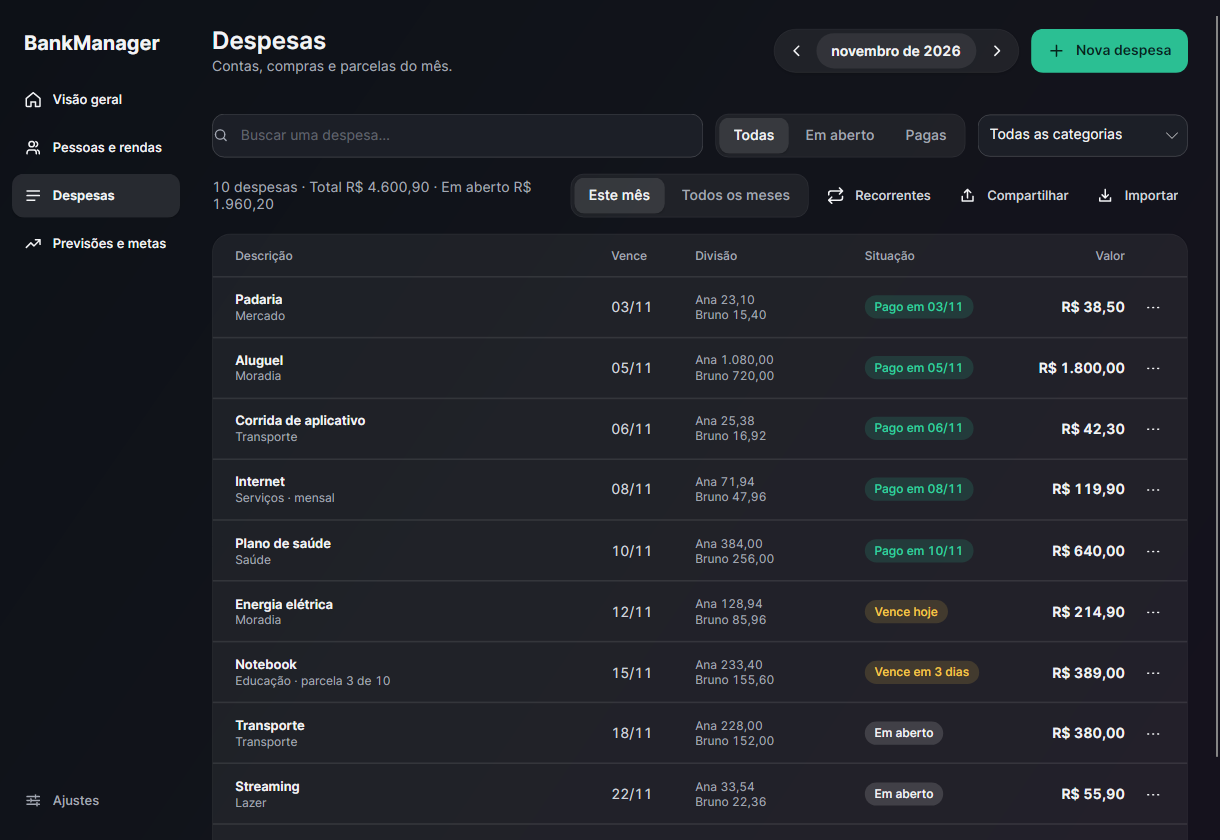
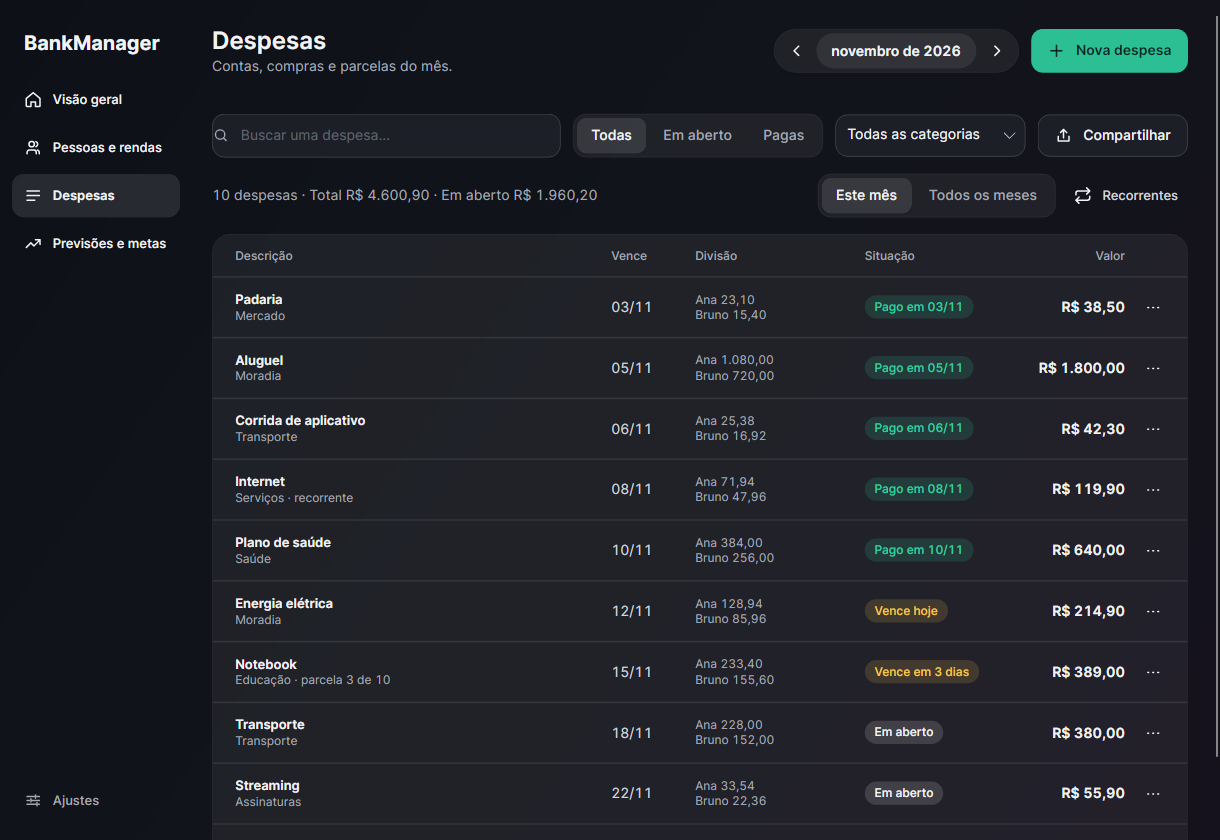
docs: fluxo novo de compartilhar despesas e capturas regeneradas
README, LEIA-ME, guia do código, notas de versão e resumo da evolução descrevem o
modo de seleção, o diálogo de exportar e o assistente de importação em três passos.
Capturas refeitas com dados fictícios, incluindo as quatro telas do fluxo.

diff --git a/README.md b/README.md
@@ -8,8 +8,10 @@ Aplicativo desktop de gestão financeira individual e familiar em **C# / .NET 10
 ![Fim da visão geral: próximos pagamentos, acerto de contas e últimas movimentações (dados de demonstração)](docs/visao-geral-2.png)
 ![Metas por categoria em Previsões e metas (dados de demonstração)](docs/metas.png)
 ![Lista de despesas no tema escuro (dados de demonstração)](docs/despesas-escuro.png)
-![Assistente Compartilhar despesas (dados de demonstração)](docs/compartilhar.png)
-![Assistente Importar despesas compartilhadas (dados de demonstração)](docs/importar-compartilhadas.png)
+![Modo de seleção na página Despesas (dados de demonstração)](docs/compartilhar-selecionar.png)
+![Diálogo Compartilhar despesas (dados de demonstração)](docs/compartilhar-exportar.png)
+![Importar despesas compartilhadas: quem é quem (dados de demonstração)](docs/importar-pessoas.png)
+![Importar despesas compartilhadas: prévia (dados de demonstração)](docs/importar-previa.png)
 
 ## Baixar pronto e compartilhar
 
@@ -55,7 +57,7 @@ A restauração inicial requer NuGet ou pacotes já presentes no cache. O uso do
 5. Para contas fixas (aluguel, internet, assinaturas), marque **Repetir todo mês** ao criar a despesa. Em **Despesas → Recorrentes** (ou em **Previsões e metas → Despesas recorrentes**) você encerra ou remove cada uma. Na lista de despesas, use o menu **⋯** de cada linha para marcar como paga, editar ou excluir; filtre por busca, situação e categoria e navegue entre meses. **Ctrl+N** abre uma nova despesa em qualquer tela.
 6. Em **Previsões e metas**, um submenu reúne as metas por categoria, a previsão do mês seguinte ao selecionado, as despesas recorrentes e o acerto de contas.
 7. Ao marcar uma despesa como paga, o aplicativo guarda **quem pagou** e a **data do pagamento** (hoje, ou a que você informar). A lista mostra "Pago em dd/MM".
-8. Para mandar algumas despesas a outra pessoa, use **Despesas → Compartilhar**; quem recebe usa **Importar** e as despesas são adicionadas às dela, sem substituir nada (veja [Compartilhar despesas](#compartilhar-despesas)).
+8. Para mandar algumas despesas a outra pessoa, use **Despesas → Compartilhar** e marque as despesas na lista; quem recebe usa **Ajustes → Importar despesas compartilhadas** e as despesas são adicionadas às dela, sem substituir nada (veja [Compartilhar despesas](#compartilhar-despesas)).
 9. Em **Ajustes**, escolha o tema (claro, escuro ou automático) e exporte backups para outro local. Importações são validadas e pedem confirmação antes de substituir o histórico.
 
 ## Regras financeiras
@@ -80,21 +82,23 @@ Em **Ajustes → Seus dados → Planilhas**:
 
 Serve para passar **algumas** despesas a outra pessoa que usa o BankManager (por exemplo, as contas da casa para quem divide com você). É diferente do backup: o backup leva tudo e, ao ser importado, **substitui** a base; o compartilhamento leva só o que você marcar e, ao ser importado, **adiciona**.
 
-**Enviar (Despesas → Compartilhar, ou Ajustes → Compartilhar despesas):**
+**Enviar (Despesas → Compartilhar):**
 
-- Marque as despesas nas caixas de seleção ou use os atalhos: **Todas deste mês**, **Marcar uma categoria** e **Completar parcelas** (marca as outras parcelas das compras parceladas já marcadas).
-- A prévia mostra quantas despesas vão, o total e as pessoas citadas. O arquivo tem extensão própria, `.bmshare.json`.
+- O botão **Compartilhar**, ao lado dos filtros, liga o **modo de seleção**: a lista ganha caixas de marcação e uma faixa com os atalhos **Todas deste mês**, **Uma categoria…** e **Limpar seleção**. Clicar em qualquer ponto da linha marca ou desmarca. A busca e os filtros continuam valendo, e os atalhos marcam só o que está visível. **Esc** (ou **Cancelar**) sai do modo.
+- Uma barra flutuante mostra quantas despesas estão marcadas e o total. **Compartilhar…** abre o diálogo com os indicadores (despesas, total, pessoas citadas) e a lista do que vai no arquivo.
+- Duas opções, desligadas por padrão: **Incluir as outras parcelas** de uma compra parcelada marcada e **Incluir situação de pagamento e quem pagou** (desligada, a outra pessoa recebe tudo "em aberto").
+- **Salvar arquivo** abre o seletor do sistema com o nome sugerido `despesas-<mês>-<ano>.bmshare.json`. Depois de salvar, o aplicativo mostra onde o arquivo ficou.
 - Vão no arquivo: descrição, categoria, vencimento, valor, itens da lista de compra, dados de parcela, modo de divisão, os responsáveis **pelo nome** e as categorias próprias usadas. **Nunca vão:** rendas, metas, acertos de contas e despesas não marcadas.
-- Por padrão, todas vão "em aberto". Marque **Incluir a situação de pagamento** para levar também pago/em aberto, a data do pagamento e quem pagou.
 - O arquivo é um texto legível, sem senha, com informações financeiras: envie só para quem deve recebê-lo.
 
-**Receber (Despesas → Importar, ou Ajustes → Importar despesas compartilhadas):**
+**Receber (Ajustes → Seus dados → Importar despesas compartilhadas, ou o botão de mesmo nome quando a lista de despesas está vazia):**
 
-1. O arquivo é validado (tamanho de até 5 MB, até 5.000 despesas, campos desconhecidos e versões mais novas recusados) e resumido.
-2. **Pessoas:** para cada nome do arquivo, escolha uma pessoa já cadastrada, criar um cadastro novo ou ignorar. O aplicativo sugere pelo nome (sem diferenciar maiúsculas e acentos), mas a escolha é sua. Se todas as pessoas de uma despesa forem ignoradas, é preciso escolher quem assume.
-3. **Categorias** próprias que não existem na sua base: criar (até o limite de 40) ou usar "Outros".
-4. **Prévia ao vivo:** o que será adicionado, o que já existe e o que tem erro. Cada despesa carrega um identificador de origem; importar o mesmo arquivo duas vezes **não duplica** nada (as repetidas são puladas, a menos que você marque para importar mesmo assim).
-5. Ao confirmar, tudo é gravado de uma vez (ou nada, se algo falhar), e a versão anterior da base vira a cópia automática. No fim aparece "N despesas adicionadas, M puladas".
+1. **Arquivo:** o arquivo é validado (até 5 MB e 5.000 despesas; campos desconhecidos e versões mais novas são recusados). Um arquivo inválido, ou um backup escolhido por engano, aparece em vermelho com o motivo, e nada é alterado.
+2. **Quem é quem?:** para cada nome do arquivo, escolha uma pessoa já cadastrada, criar uma pessoa nova ou ignorar. O aplicativo sugere pelo nome (sem diferenciar maiúsculas e acentos), mas a escolha é sua. Se todas as pessoas de uma despesa forem ignoradas, é preciso escolher quem assume. Duas pessoas do arquivo que dividem uma despesa não podem virar a mesma pessoa. Categorias próprias que faltam: criar (até o limite de 40) ou usar "Outros".
+3. **Prévia:** o que será adicionado e o que já existe. Cada despesa carrega um identificador de origem; importar o mesmo arquivo duas vezes **não duplica** nada (a repetida é pulada, a menos que você marque **Importar mesmo assim** naquela despesa).
+4. Ao confirmar, tudo é gravado de uma vez (ou nada, se algo falhar), e a versão anterior da base vira a cópia automática. A tela final resume o que entrou e oferece **Ver despesas**.
+
+Voltar um passo não perde as escolhas; **Cancelar**, o **X** e **Esc** fecham sem gravar nada (Esc pede confirmação se você já tiver feito escolhas).
 
 Atenção à **divisão proporcional**: ela depende da renda de cada pessoa na base de quem importa, então o rateio é recalculado com as rendas de lá e pode ser diferente do seu. Quem importa pode manter o modo ou trocar por divisão igual. Despesas recorrentes viajam como despesas comuns (o modelo "todo mês" não é enviado). Um backup escolhido no lugar de um compartilhamento (ou o contrário) é recusado com uma mensagem clara, sem alterar nada.
 

diff --git a/docs/RESUMO-DA-EVOLUCAO.md b/docs/RESUMO-DA-EVOLUCAO.md
@@ -73,16 +73,16 @@ O visual inteiro foi trocado pela direção aprovada no protótipo: sai o roxo, 
 | **Data de pagamento** | Marcar como paga guarda o dia (hoje, ou o que você digitar no diálogo "Quem pagou?" ou no formulário). Reabrir apaga. A lista mostra "Pago em dd/MM". |
 | **Últimas movimentações** | Passam a usar a data do pagamento: a despesa aparece no mês em que foi paga. A linha esmaecida foi removida; todas têm opacidade total. |
 | **Esquema versão 3** | Arquivos das versões 1 e 2 abrem e são atualizados em cadeia, sem perda; o arquivo antigo vira a cópia anterior. Despesas já pagas ficam **sem** data de pagamento (o app não inventa uma): vale o vencimento. |
-| **Compartilhar despesas** | Você marca algumas despesas e gera um arquivo `.bmshare.json`. É outro tipo de arquivo, diferente do backup: leva só as despesas marcadas, com as pessoas pelo nome. Nunca leva rendas, metas ou acertos. |
-| **Importar sem substituir** | Quem recebe passa por um assistente: confere o arquivo, diz quem é cada pessoa (existente, nova ou ignorar), decide as categorias que faltam e vê a prévia. As despesas são **adicionadas**; nada é apagado. Importar o mesmo arquivo duas vezes não duplica. Tudo é gravado de uma vez, ou nada. |
+| **Compartilhar despesas** | Na página Despesas, o botão Compartilhar liga um modo de seleção: você marca as despesas na própria lista e gera um arquivo `.bmshare.json`. É outro tipo de arquivo, diferente do backup: leva só as despesas marcadas, com as pessoas pelo nome. Nunca leva rendas, metas ou acertos. |
+| **Importar sem substituir** | Quem recebe passa por um assistente em três passos, desenhado sobre a própria janela: confere o arquivo, diz quem é cada pessoa (existente, nova ou ignorar) e decide as categorias que faltam, e vê a prévia. As despesas são **adicionadas**; nada é apagado. Importar o mesmo arquivo duas vezes não duplica. Tudo é gravado de uma vez, ou nada. |
 
-**Decisões minhas nesta fase:** a seleção para compartilhar fica em uma lista com caixas dentro do assistente (não na lista principal de despesas); o assistente de importação mostra os passos numerados em uma só janela, com a prévia ao vivo; despesas recorrentes viajam como despesas comuns; na divisão proporcional, quem importa escolhe entre manter o modo (recalculado com as rendas de lá) ou dividir igualmente.
+**Decisões minhas nesta fase:** os diálogos de compartilhar e de importar são cartões dentro da janela (não janelas do sistema), para ficarem iguais no Windows e no Linux; os outros diálogos do aplicativo continuam como janelas; o assistente abre o seletor de arquivo antes do passo 1; despesas recorrentes viajam como despesas comuns; na divisão proporcional, quem importa escolhe entre manter o modo (recalculado com as rendas de lá) ou dividir igualmente.
 
 ## Como foi verificado
 
 - Build sem avisos.
-- **95 testes de domínio** (cálculos, validação, recorrências, acerto, CSV, migração com arquivos reais das versões 1 e 2, data de pagamento, compartilhamento: seleção parcial, mapeamentos, duplicatas, parcelas, tipo errado de arquivo, arquivo adulterado e gravação tudo-ou-nada).
-- **54 verificações de interface** com a janela real (cadastro, pagamento com data, acerto, recorrência, categorias, metas, abas, importação de extrato, tema, atalho e o fluxo completo exportar → importar despesas em uma base com dados).
+- **97 testes de domínio** (cálculos, validação, recorrências, acerto, CSV, migração com arquivos reais das versões 1 e 2, data de pagamento, compartilhamento: seleção parcial, mapeamentos, duplicatas, parcelas, tipo errado de arquivo, arquivo adulterado e gravação tudo-ou-nada).
+- **83 verificações de interface** com a janela real (cadastro, pagamento com data, acerto, recorrência, categorias, metas, abas, importação de extrato, tema, atalho e o fluxo completo exportar → importar despesas em uma base com dados).
 - Contraste de pelo menos 4,5:1 entre texto e fundo nos dois temas, conferido por script.
 - Capturas com dados de demonstração (fictícios) comparadas com o protótipo.
 
@@ -114,7 +114,7 @@ O visual inteiro foi trocado pela direção aprovada no protótipo: sai o roxo, 
 | Componentes (chip, avatar, botões...) | `BankManager/Ui.cs` |
 | Testes | `BankManager.Tests/` (domínio) e `BankManager.UiTests/` (janela real) |
 | Gráfico da visão geral | `BankManager/Controls/BarChart.cs` |
-| Compartilhamento de despesas | `BankManager.Core/ExpenseShare.cs` e `BankManager/Pages/ShareDialogs.cs` |
+| Compartilhamento de despesas | `BankManager.Core/ExpenseShare.cs`, `BankManager/Pages/ShareExport.cs`, `ShareImport.cs` e `BankManager/Overlay.cs` |
 | Empacotamento | `scripts/package.py`, `scripts/installers.py`, `installer/` |
 | Explicações mais detalhadas | `README.md` e `docs/GUIA-DO-CODIGO.md` |
 

diff --git a/docs/GUIA-DO-CODIGO.md b/docs/GUIA-DO-CODIGO.md
@@ -20,7 +20,7 @@ Este guia liga os arquivos aos comportamentos do aplicativo. Os comentários em 
 14. `BankManager.Core/GoalEngine.cs`: metas mensais por categoria e seu progresso.
 15. `BankManager.Core/ExpenseSearch.cs`: busca e filtros da lista (um mês ou todos).
 16. `BankManager.Core/Csv.cs`, `CsvExport.cs` e `StatementImport.cs`: leitura/escrita de CSV, exportação e importação de extratos.
-17. `BankManager.Core/ExpenseShare.cs`: arquivo de compartilhamento de despesas (exportar as escolhidas, importar adicionando); as telas ficam em `BankManager/Pages/ShareDialogs.cs`.
+17. `BankManager.Core/ExpenseShare.cs`: arquivo de compartilhamento de despesas (exportar as escolhidas, importar adicionando); o modo de seleção fica em `Pages/ExpensesPage.cs`, o diálogo de exportar em `Pages/ShareExport.cs`, o assistente de importação em `Pages/ShareImport.cs` e a base dos diálogos sobrepostos em `BankManager/Overlay.cs`.
 18. `BankManager.Core/DueStatus.cs`: situação de vencimento (Pago, Em aberto, Vence em breve, Em atraso), base dos chips da interface.
 
 Os métodos e tipos C# possuem resumos XML (`///`), exibidos pelo Rider ao inspecionar um símbolo. Comentários `//` dentro dos métodos explicam etapas e decisões locais.
@@ -136,6 +136,8 @@ Os ícones são traços vetoriais 24×24 em `Icons.axaml`; `Ui.Icon("Home")` os 
 ### Compartilhar despesas
 
 `ExpenseShare` (Core) cuida de tudo sem tocar na interface. `Build` monta um `ShareFile` com as despesas escolhidas; as pessoas vão pelo nome, porque os Ids de quem envia não existem na base de quem recebe. `Read` e `Validate` aplicam as proteções do backup (tamanho, profundidade, campos desconhecidos, versão) e conferem o campo `Kind`, que distingue o compartilhamento do backup; `LocalStore.Read` faz a conferência inversa. `Suggest` propõe o mapeamento de pessoas e categorias, e `Import` calcula o resultado em uma cópia profunda e valida o orçamento inteiro: serve de prévia e não altera nada. Para gravar, a tela chama `Commit(d => ExpenseShare.Apply(d, ...))`, o mesmo caminho seguro de qualquer edição (cópia, validação, gravação atômica, cópia anterior). Cada despesa importada guarda em `OriginId` o Id que tinha na origem; é por ele que uma segunda importação reconhece as duplicadas.
+
+Na interface, o fluxo tem três partes. O **modo de seleção** (`selecting` e `selectedIds`, na janela) faz a lista de despesas desenhar caixas de marcação e mostra uma barra flutuante que fica fora da área rolável. O **diálogo de exportar** e o **assistente de importação** não são janelas do sistema: são cartões desenhados sobre a própria janela, por `ShowOverlay` (`Overlay.cs`). A camada escura bloqueia cliques no que está atrás, o Tab circula só dentro do cartão, o foco vai para o título ao abrir e volta ao botão de origem ao fechar, e a tecla Esc é entregue ao diálogo. O assistente guarda as escolhas em variáveis locais de `ImportShared` e redesenha cada passo a partir delas; por isso voltar um passo não perde nada. `ExpenseShare.Import` devolve uma `ShareLine` por despesa do arquivo (adicionar, pular ou erro), e é isso que a prévia mostra. Os testes de interface usam `TestSavePath` e `TestOpenPath` no lugar do seletor de arquivos do sistema.
 
 ### Componentes de interface
 

diff --git a/docs/RELEASE-NOTES.md b/docs/RELEASE-NOTES.md
@@ -2,7 +2,7 @@ BankManager 2.2: gestão financeira individual e familiar, em português, com da
 
 ## Novidades da 2.2
 
-- **Compartilhar despesas:** marque algumas despesas, gere um arquivo (`.bmshare.json`) e envie a outra pessoa. Ao importar, as despesas são **adicionadas** às dela, sem substituir nem apagar nada. O assistente mapeia pessoas e categorias, mostra uma prévia e não duplica o que já foi importado. O arquivo nunca leva rendas, metas ou acertos.
+- **Compartilhar despesas:** marque algumas despesas, gere um arquivo (`.bmshare.json`) e envie a outra pessoa. Ao importar, as despesas são **adicionadas** às dela, sem substituir nem apagar nada. Você marca as despesas direto na lista (modo de seleção) e quem recebe passa por um assistente em três passos: arquivo, quem é quem e prévia. Ele não duplica o que já foi importado. O arquivo nunca leva rendas, metas ou acertos.
 - **Data de pagamento:** ao marcar uma despesa como paga, o aplicativo guarda o dia (hoje, ou o que você informar). A lista mostra "Pago em dd/MM" e as **Últimas movimentações** passam a seguir a data do pagamento.
 - **Visual novo ("Estilo C"),** desde a 2.1: verde e tons neutros, fundo em degradê, cartões translúcidos, visão geral com saldo em destaque, gráfico dos últimos 6 meses, metas em cartões e últimas movimentações. **Previsões e metas** reúne metas, previsão, recorrentes e acerto de contas.
 - Extrato importado em CSV usa a data de cada linha como data do pagamento; a planilha exportada ganhou a coluna "Pago em".
